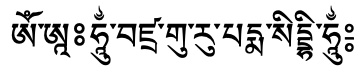
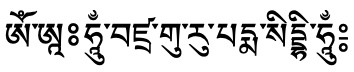
Mac specific fonts

Changed region(s): [[0.0, 0.0833, 0.9944, 0.9167]]

diff --git a/docs/tibetan_fonts.md b/docs/tibetan_fonts.md
@@ -12,8 +12,15 @@ If you are working on Tibetan projects that involve Sanskrit stacks (mantras), C
 
 If the font you are using is not under a free license, then you won't be able to distribute any changes that you have made to a font to add needed glyphs.
 
-The following list contains a number of fonts with good coverage of the most common glyphs and open licenses.
+### Recommendation
+
+The `Noto` and `Babelstone` families of fonts are currently under activate development, so updates, improvements and bug-fixes are more likely.
+
+- [Google's Noto-Fonts project](https://github.com/googlefonts/noto-fonts)
+- [Andrew West's Babelstone project](https://www.babelstone.co.uk/Fonts/)
 ## Overview of freely available Unicode Tibetan fonts
+
+The following list contains a number of fonts with good coverage of the most common glyphs and open licenses.
 
 | Font name | Sample | Glyphs | Comment |
 | --------- | :----: | ------ | ------- |

diff --git a/docs/computers_macos.md b/docs/computers_macos.md
@@ -2,7 +2,19 @@
 
 Tibetan support works equally well for old Intel Macs and the new Apple Silicon based Macs.
 
-The Mac comes with Tibetan fonts preinstalled. For more fonts, see [Tibetan fonts](tibetan_fonts.md).
+(macos_fonts)=
+## Fonts
+
+The Mac comes with Tibetan fonts preinstalled. 
+
+| Font name | Sample | Glyphs | Comment |
+| --------- | :----: | ------ | ------- |
+| Kailasa   | ![macOS Kailasa](Images/Font_Kailasa.jpg) | 1.393 | Version 16.0d1e1, by Otani University Shin Buddhist Research Institute |
+| Kokonor | ![macOS Kokonor](Images/Font_Kokonor.jpg) | 1.344 | Version 13.0d1e3, Otani University Shin Buddhist Research Institute |
+
+Both fonts have a very limited glyph count, are not under a free license, and are only available on macOS.
+
+For alternative fonts, see [Tibetan fonts](tibetan_fonts.md).
 
 (macos_keyboard)=
 ## Tibetan keyboard
